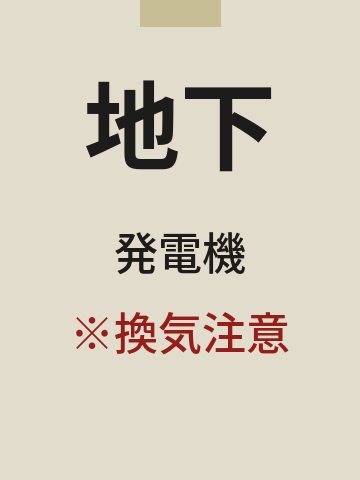
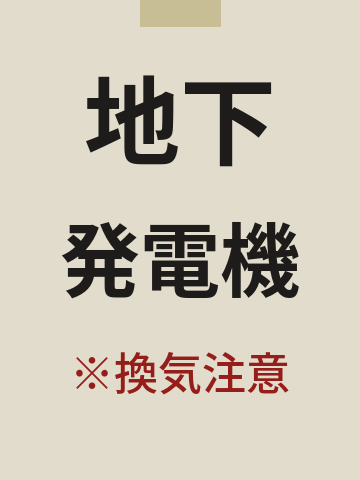
試作34: 真琴が体ごと振り向く、地下扉の貼り紙を玄関側へ・文字を大きく、操作説明はキーの区切りでだけ改行
Claude-Session: https://claude.ai/code/session_01Ljtd9WKaRHhzF2He6DVppR

diff --git a/blender/hall.py b/blender/hall.py
@@ -68,10 +68,13 @@ def note_tex(path, lines):
     from PIL import Image, ImageDraw, ImageFont
     im = Image.new('RGB', (360, 480), (226, 220, 204)); d = ImageDraw.Draw(im)
     f1 = ImageFont.truetype('/usr/share/fonts/opentype/noto/NotoSansCJK-Bold.ttc', 96, index=0)
-    f2 = ImageFont.truetype('/usr/share/fonts/opentype/noto/NotoSansCJK-Medium.ttc', 44, index=0)
-    d.text((180, 120), lines[0], font=f1, fill=(30, 28, 26), anchor='mm')
-    d.text((180, 250), lines[1], font=f2, fill=(30, 28, 26), anchor='mm')
-    d.text((180, 330), lines[2], font=f2, fill=(150, 30, 26), anchor='mm')
+    f2 = ImageFont.truetype('/usr/share/fonts/opentype/noto/NotoSansCJK-Bold.ttc', 52, index=0)
+    f3 = ImageFont.truetype('/usr/share/fonts/opentype/noto/NotoSansCJK-Bold.ttc', 80, index=0)
+    # the second line is what the player has to read (発電機): bold and nearly as big as the first, so it survives the
+    # halftone at a step's distance (at 44 px it printed as a grey smudge, 2026-11-02)
+    d.text((180, 115), lines[0], font=f1, fill=(30, 28, 26), anchor='mm')
+    d.text((180, 255), lines[1], font=f3, fill=(30, 28, 26), anchor='mm')
+    d.text((180, 375), lines[2], font=f2, fill=(150, 30, 26), anchor='mm')
     d.rectangle((140, 0, 220, 26), fill=(200, 190, 150))
     im.save(path); return path
 

diff --git a/blender/house4.py b/blender/house4.py
@@ -225,7 +225,8 @@ def under_stair(M):
     wall_v4(M, ('X', 5.6, x0 - .04, 6.0 - T / 2, [(5.12, 5.93)], [], 0), 0.0, H1, SILL1, WH1)
     # a hand-written note on the cellar door (hall side)
     nt = mat_image('note4', Hm.note_tex(f'{P.KF}/note_basement.png', ['地下', '発電機', '※換気注意']), rough=.8, bump=0)
-    return prim('plane', 'note', loc=(X(5.52), Y(5.6) - .03, 1.45), rot=(math.pi / 2, 0, math.pi), scale=(.09, .12, 1), mat=nt)
+    # faces the lobby (plan +y, Blender -Y), where the bulb is and where you read it from (it faced into the door before)
+    return prim('plane', 'note', loc=(X(5.52), Y(5.6) - .03, 1.45), rot=(math.pi / 2, 0, 0), scale=(.09, .12, 1), mat=nt)
 
 def cellar_shaft(M):
     """Walls round the cellar stair below the 1F floor, and the barred door at its foot (bar on the basement side)."""
